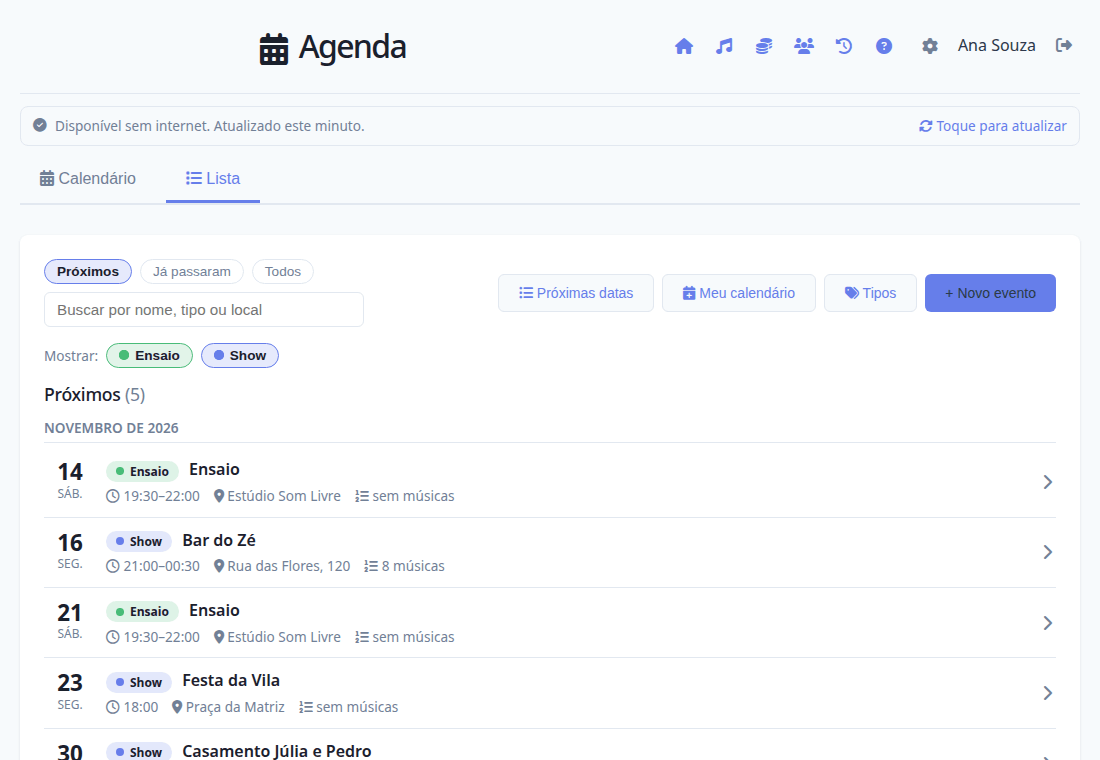
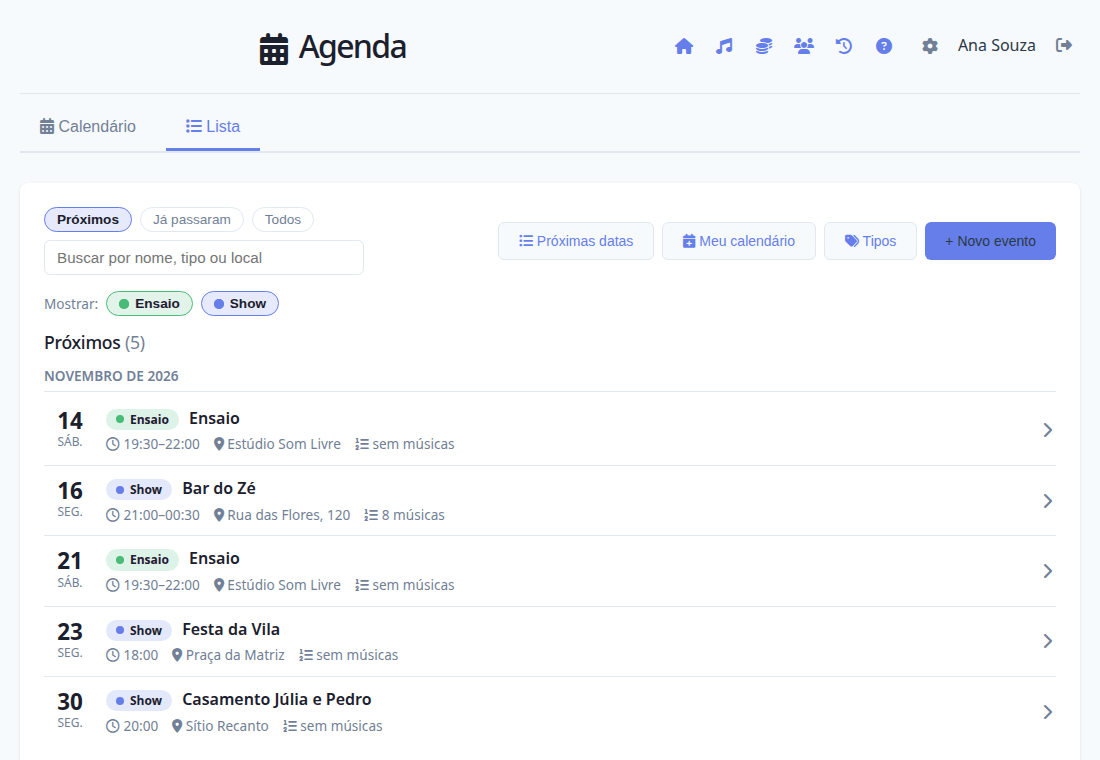
Show the offline strip only when something is wrong
The strip on the agenda, songs and events said "Disponível sem internet" even when all was
well, taking room at the top of a phone. It now only warns: no connection, nothing downloaded,
or an expired session. Downloading again on demand is in Configurações, which also takes over
the iPhone hint to add the app to the home screen. Manual and its screenshots updated.

diff --git a/frontend/src/components/OfflineBar.vue b/frontend/src/components/OfflineBar.vue
@@ -1,5 +1,5 @@
 <script setup>
-import { computed, ref } from 'vue'
+import { computed } from 'vue'
 import { useI18n } from 'vue-i18n'
 import { useRoute, useRouter } from 'vue-router'
 import { useAuth } from '../composables/useAuth'
@@ -10,71 +10,24 @@ import { formatTimeAgo } from '../utils/date'
 const { t, locale } = useI18n()
 const route = useRoute()
 const router = useRouter()
-const { sessionExpired, syncCopy } = useAuth()
+const { sessionExpired } = useAuth()
 
-// Tapping the strip downloads again. Once it worked the strip shows it for a moment, then stays
-// out of the way for a while, on every screen. Warnings (no connection, expired) always show.
-const HIDDEN_UNTIL_KEY = 'offline_bar_hidden_until'
-const HIDE_AFTER_UPDATE_MS = 60 * 60 * 1000
-const CONFIRM_MS = 2000
-
-function readHiddenUntil() {
-  try {
-    return Number(localStorage.getItem(HIDDEN_UNTIL_KEY)) || 0
-  } catch {
-    return 0
-  }
-}
-
-const hiddenUntil = ref(readHiddenUntil())
-const downloading = ref(false)
-const downloadFailed = ref(false)
-
+// Only says something when there's a problem: no connection, an expired session or nothing
+// downloaded yet. With a connection the data stays fresh on its own (UpdateBar warns when it
+// doesn't), and Configurações has a button to download it again.
 const state = computed(() => {
   if (sessionExpired.value && copyInfo.value) return 'expired'
   if (connectionLost.value) return copyInfo.value ? 'offline' : 'noCopy'
-  return copyInfo.value ? 'saved' : null
+  return null
 })
 
-const canDownload = computed(() => state.value === 'saved')
-const visible = computed(() => state.value && !(canDownload.value && Date.now() < hiddenUntil.value))
-
 const isStale = computed(() =>
-  state.value !== 'saved' && copyInfo.value && Date.now() - copyInfo.value.savedAt > STALE_COPY_AGE_MS,
+  Boolean(copyInfo.value) && Date.now() - copyInfo.value.savedAt > STALE_COPY_AGE_MS,
 )
 
 const savedWhen = computed(() => (copyInfo.value ? formatTimeAgo(copyInfo.value.savedAt, locale.value) : ''))
 
-const message = computed(() => {
-  if (downloading.value) return t('actions.loading')
-  if (downloadFailed.value) return t('offline.downloadFailed')
-  return state.value ? t(`offline.${state.value}`, { when: savedWhen.value }) : ''
-})
-
-function hideForAWhile() {
-  hiddenUntil.value = Date.now() + HIDE_AFTER_UPDATE_MS
-  try {
-    localStorage.setItem(HIDDEN_UNTIL_KEY, String(hiddenUntil.value))
-  } catch {
-    // It just shows again on the next screen
-  }
-}
-
-async function downloadAgain() {
-  if (downloading.value) return
-  downloading.value = true
-  downloadFailed.value = false
-  const result = await syncCopy({ force: true })
-  downloading.value = false
-  if (result === 'saved') {
-    setTimeout(hideForAWhile, CONFIRM_MS)
-  } else {
-    downloadFailed.value = true
-  }
-}
-
-// Installed apps on iPhones keep their data much better than a Safari tab does
-const shouldSuggestInstall = /iphone|ipad|ipod/i.test(navigator.userAgent) && !navigator.standalone
+const message = computed(() => (state.value ? t(`offline.${state.value}`, { when: savedWhen.value }) : ''))
 
 function signIn() {
   router.push({ path: '/login', query: { redirect: route.fullPath } })
@@ -82,34 +35,16 @@ function signIn() {
 </script>
 
 <template>
-  <component
-    :is="canDownload ? 'button' : 'div'"
-    v-if="visible"
-    :type="canDownload ? 'button' : undefined"
-    class="offline-bar"
-    :class="{ 'is-warning': state !== 'saved' || downloadFailed, 'is-tappable': canDownload }"
-    :title="canDownload ? $t('offline.tapToUpdate') : undefined"
-    :disabled="canDownload && downloading"
-    :role="canDownload ? undefined : 'status'"
-    aria-live="polite"
-    @click="canDownload && downloadAgain()"
-  >
-    <i
-      class="fa-solid"
-      :class="downloading ? 'fa-spinner fa-spin' : state === 'saved' && !downloadFailed ? 'fa-circle-check' : 'fa-triangle-exclamation'"
-    ></i>
+  <div v-if="state" class="offline-bar" role="status" aria-live="polite">
+    <i class="fa-solid fa-triangle-exclamation"></i>
     <span class="offline-bar-text">
       {{ message }}
       <strong v-if="isStale">{{ $t('offline.stale') }}</strong>
-      <small v-if="state === 'saved' && shouldSuggestInstall">{{ $t('offline.installHint') }}</small>
-    </span>
-    <span v-if="canDownload && !downloading" class="offline-bar-action">
-      <i class="fa-solid fa-rotate"></i> {{ $t('offline.tapToUpdate') }}
     </span>
     <button v-if="state === 'expired'" type="button" class="btn-secondary" @click="signIn">
       {{ $t('offline.signIn') }}
     </button>
-  </component>
+  </div>
 </template>
 
 <style scoped>
@@ -120,38 +55,12 @@ function signIn() {
   gap: 8px;
   margin-bottom: 12px;
   padding: 8px 12px;
-  border: 1px solid var(--border);
+  border: 1px solid #d69e2e;
   border-radius: 8px;
-  color: var(--text-light);
   font-size: 0.85rem;
-}
-.offline-bar.is-tappable {
-  width: 100%;
-  background: transparent;
-  font: inherit;
-  font-size: 0.85rem;
-  text-align: left;
-  cursor: pointer;
-}
-.offline-bar.is-tappable:hover:not(:disabled) {
-  background: var(--accent-light);
-}
-.offline-bar.is-tappable:disabled {
-  cursor: progress;
-}
-.offline-bar-action {
-  color: var(--accent);
-  white-space: nowrap;
-}
-.offline-bar.is-warning {
-  border-color: #d69e2e;
-  color: inherit;
 }
 .offline-bar-text {
   flex: 1;
   min-width: 180px;
-}
-.offline-bar-text small {
-  display: block;
 }
 </style>

diff --git a/frontend/src/components/OfflineBar.spec.js b/frontend/src/components/OfflineBar.spec.js
@@ -1,5 +1,5 @@
-import { afterEach, beforeEach, describe, expect, it, vi } from 'vitest'
-import { flushPromises, mount } from '@vue/test-utils'
+import { beforeEach, describe, expect, it, vi } from 'vitest'
+import { mount } from '@vue/test-utils'
 import { createI18n } from 'vue-i18n'
 import { ref } from 'vue'
 import OfflineBar from './OfflineBar.vue'
@@ -19,9 +19,8 @@ vi.mock('../offline/snapshot', async () => {
 })
 
 const sessionExpired = ref(false)
-const syncCopy = vi.fn()
 vi.mock('../composables/useAuth', () => ({
-  useAuth: () => ({ sessionExpired, syncCopy }),
+  useAuth: () => ({ sessionExpired }),
 }))
 
 vi.mock('vue-router', () => ({
@@ -31,13 +30,12 @@ vi.mock('vue-router', () => ({
 
 const messages = {
   en: {
-    actions: { loading: 'Loading...' },
     offline: {
-      saved: 'Available offline. Updated {when}.',
       offline: 'Offline. Showing data from {when}.',
-      downloadFailed: 'Could not download now.',
-      tapToUpdate: 'Tap to update',
+      expired: 'Your session expired. Showing data from {when}.',
+      noCopy: 'Offline, and nothing was downloaded on this device yet.',
       stale: 'May be out of date.',
+      signIn: 'Sign in to update',
     },
   },
 }
@@ -49,63 +47,38 @@ function mountBar() {
 
 describe('OfflineBar', () => {
   beforeEach(() => {
-    vi.useFakeTimers({ toFake: ['setTimeout', 'Date'] })
-    vi.clearAllMocks()
-    localStorage.clear()
     sessionExpired.value = false
     state.connectionLost.value = false
     state.copyInfo.value = { savedAt: Date.now() - 10 * 60_000 }
-    syncCopy.mockImplementation(async () => {
-      state.copyInfo.value = { savedAt: Date.now() }
-      return 'saved'
-    })
   })
 
-  afterEach(() => {
-    vi.useRealTimers()
-  })
-
-  it('should download again when tapped, show it worked, then hide for a while', async () => {
-    const wrapper = mountBar()
-    const strip = wrapper.find('button.offline-bar')
-    expect(strip.text()).toContain('Tap to update')
-
-    await strip.trigger('click')
-    await flushPromises()
-    expect(syncCopy).toHaveBeenCalledWith({ force: true })
-    expect(wrapper.find('.offline-bar').text()).toContain('Updated')
-
-    vi.advanceTimersByTime(2000)
-    await flushPromises()
-    expect(wrapper.find('.offline-bar').exists()).toBe(false)
-
-    // Still hidden on the next screen, back after an hour
+  it('stays out of the way while everything is fine', () => {
     expect(mountBar().find('.offline-bar').exists()).toBe(false)
-    vi.advanceTimersByTime(59 * 60 * 1000)
-    expect(mountBar().find('.offline-bar').exists()).toBe(false)
-    vi.advanceTimersByTime(60 * 1000)
-    expect(mountBar().find('.offline-bar').exists()).toBe(true)
   })
 
-  it('should stay, with the error, when the download fails', async () => {
-    syncCopy.mockResolvedValue('failed')
-    const wrapper = mountBar()
-
-    await wrapper.find('button.offline-bar').trigger('click')
-    await flushPromises()
-    vi.advanceTimersByTime(5000)
-    await flushPromises()
-    const strip = wrapper.find('button.offline-bar')
-    expect(strip.text()).toContain('Could not download now.')
-    expect(strip.classes()).toContain('is-warning')
-    expect(strip.attributes('disabled')).toBeUndefined()
-  })
-
-  it('should keep showing the offline warning, which is not tappable', async () => {
-    localStorage.setItem('offline_bar_hidden_until', String(Date.now() + 60_000))
+  it('says the data shown is the downloaded copy when there is no connection', () => {
     state.connectionLost.value = true
-    const wrapper = mountBar()
-    expect(wrapper.find('div.offline-bar').text()).toContain('Offline.')
-    expect(wrapper.find('button.offline-bar').exists()).toBe(false)
+    const text = mountBar().find('.offline-bar').text()
+    expect(text).toContain('Offline. Showing data from 10 minutes ago.')
+    expect(text).not.toContain('May be out of date.')
+  })
+
+  it('warns when that copy is more than a day old', () => {
+    state.connectionLost.value = true
+    state.copyInfo.value = { savedAt: Date.now() - 2 * 24 * 60 * 60_000 }
+    expect(mountBar().find('.offline-bar').text()).toContain('May be out of date.')
+  })
+
+  it('says when nothing was downloaded yet', () => {
+    state.connectionLost.value = true
+    state.copyInfo.value = null
+    expect(mountBar().find('.offline-bar').text()).toContain('nothing was downloaded')
+  })
+
+  it('offers to sign in again when the session expired', () => {
+    sessionExpired.value = true
+    const bar = mountBar().find('.offline-bar')
+    expect(bar.text()).toContain('Your session expired.')
+    expect(bar.find('button').text()).toBe('Sign in to update')
   })
 })

diff --git a/frontend/src/pages/Settings.vue b/frontend/src/pages/Settings.vue
@@ -95,6 +95,9 @@ async function refreshData() {
   refreshing.value = false
 }
 
+// Installed apps on iPhones keep their data much better than a Safari tab does
+const shouldSuggestInstall = /iphone|ipad|ipod/i.test(navigator.userAgent) && !navigator.standalone
+
 function signIn() {
   router.push({ path: '/login', query: { redirect: route.fullPath } })
 }
@@ -183,6 +186,7 @@ function signIn() {
         <h2><i class="fa-solid fa-cloud-arrow-down"></i> {{ $t('settings.offlineData') }}</h2>
         <div class="form">
           <p class="settings-hint">{{ $t('settings.offlineIntro') }}</p>
+          <p v-if="shouldSuggestInstall" class="settings-hint">{{ $t('offline.installHint') }}</p>
           <p class="settings-copy-state" aria-live="polite">
             {{ copyInfo ? $t('settings.savedAt', { when: savedWhen }) : $t('settings.noCopy') }}
           </p>

diff --git a/frontend/src/manual/celular.md b/frontend/src/manual/celular.md
@@ -32,19 +32,18 @@ internet.
 ## Quando os dados são baixados
 
 O app baixa os dados sozinho: quando você entra, enquanto usa (no máximo a cada 15 minutos),
-logo depois de uma mudança na agenda ou nas músicas e quando a conexão volta. Uma faixa no
-topo da tela diz como estão os dados:
+logo depois de uma mudança na agenda ou nas músicas e quando a conexão volta. Quando está tudo
+certo, nada aparece. Na Agenda, nas Músicas e nos eventos, uma faixa no topo da tela avisa
+quando há um problema:
 
-- **Disponível sem internet. Atualizado...**: tudo certo.
 - **Sem conexão. Mostrando os dados de...**: você está sem internet, vendo o que foi baixado.
   Depois de um dia, ela avisa que os dados **podem estar desatualizados**.
 - **Sem conexão, e nada foi baixado neste aparelho ainda.**: abra o app uma vez com internet.
+- **Sua sessão expirou. Mostrando os dados de...**: toque em **Entrar para atualizar**.
 
-Toque na faixa **Disponível sem internet**, ou em **Atualizar dados agora** nas
-[Configurações](/ajuda/configuracoes), para baixar tudo de novo na hora. Quando termina, ela
-mostra **Atualizado este minuto** e some por uma hora, para não ocupar espaço. Os avisos de
-sem conexão continuam aparecendo sempre. Antes de um show, abra a agenda e o evento com internet
-e toque na faixa para ter certeza de que está tudo baixado.
+Para saber quando os dados foram baixados, ou para baixar tudo de novo na hora, toque em
+**Atualizar dados agora** nas [Configurações](/ajuda/configuracoes). Antes de um show, abra a
+agenda e o evento com internet e faça isso para ter certeza de que está tudo baixado.
 
 Se os dados pararem de ser baixados mesmo com internet, aparece no pé da tela **Os dados deste
 aparelho podem estar desatualizados.** Toque em **Atualizar** para baixar de novo.

diff --git a/frontend/src/manual/configuracoes.md b/frontend/src/manual/configuracoes.md
@@ -44,4 +44,7 @@ Mostra quando os dados guardados para usar [sem internet](/ajuda/celular) foram 
 show, ou quando a internet voltar depois de um tempo sem conexão. Se não der certo, aparece **Não
 foi possível baixar agora**: confira a conexão e tente de novo.
 
+No iPhone, enquanto o app não está [instalado](/ajuda/celular), aparece aqui a dica de
+adicioná-lo à Tela de Início: instalado, ele guarda os dados muito melhor que uma aba do Safari.
+
 Se a sua sessão expirou, toque em **Entrar para atualizar** e entre de novo.
